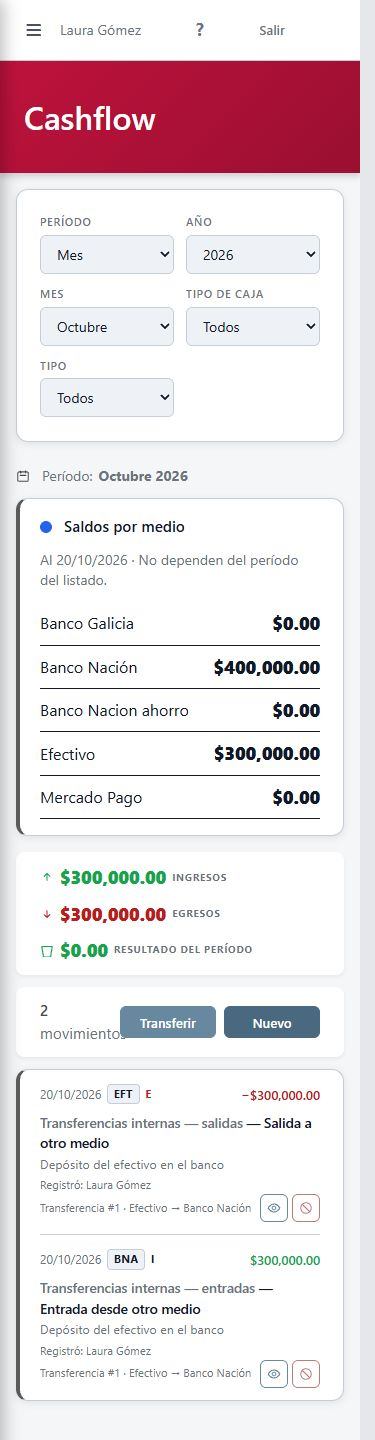
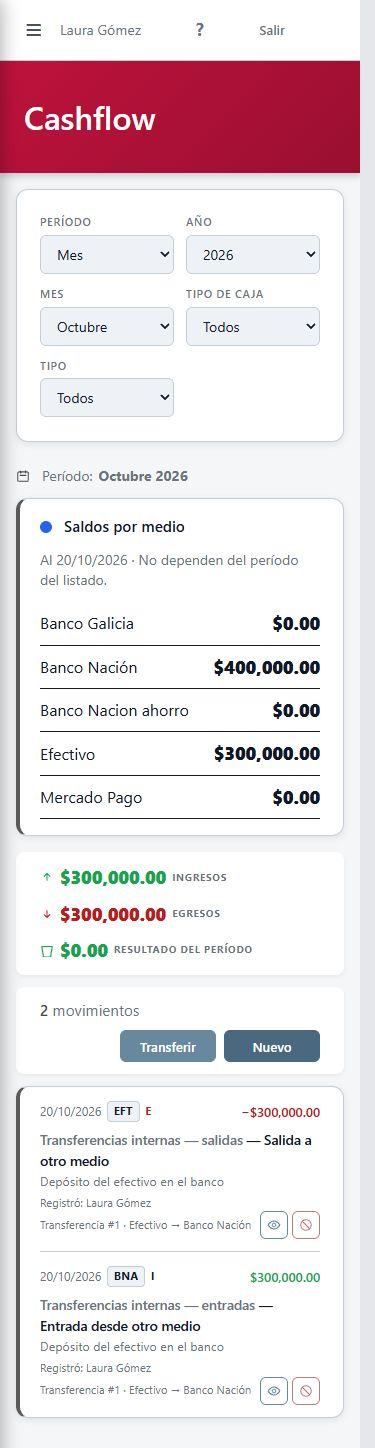
T97: separar contador y botones en la propuesta movil
Ajuste pedido por Carlos: contador en una fila y Transferir/Nuevo debajo, a la derecha. Capturas renovadas, separacion medida a 375 y escritorios identicos. Propuesta pendiente de aprobacion; sin vistas reales ni CSS compartido.

diff --git a/docs/06-pruebas/PRU-04/evidencia-t97/propuesta/html/01-cashflow-anular.html b/docs/06-pruebas/PRU-04/evidencia-t97/propuesta/html/01-cashflow-anular.html
@@ -3,7 +3,7 @@
 <head>
     <meta charset="utf-8">
     <meta name="viewport" content="width=device-width, initial-scale=1">
-    <meta name="csrf-token" content="rocgqJOvSmzFsvfekWAYSDRdSm5ePpTIlVNNHslC">
+    <meta name="csrf-token" content="0CM1eWsq3BmNGR1XzvJCqTuiAsLkrdUrZzNjHgOm">
     <title>Cashflow histórico – Wings</title>
     <link rel="icon" type="image/x-icon" href="http://gestion-wings/favicon.ico">
     <link rel="icon" type="image/png" sizes="32x32" href="http://gestion-wings/favicon-32x32.png">
@@ -11,7 +11,13 @@
     <link rel="apple-touch-icon" sizes="180x180" href="http://gestion-wings/apple-touch-icon.png">
     <link rel="manifest" href="http://gestion-wings/site.webmanifest">
     <meta name="theme-color" content="#0F172A">
-    <link rel="preload" as="style" href="file:///C:/xampp/htdocs/gestion-wings/public/build/assets/app-90uqqoQ0.css" /><link rel="modulepreload" as="script" href="file:///C:/xampp/htdocs/gestion-wings/public/build/assets/app-C1AirYQy.js" /><link rel="modulepreload" as="script" href="file:///C:/xampp/htdocs/gestion-wings/public/build/assets/formato-importe-rshXORao.js" /><link rel="stylesheet" href="file:///C:/xampp/htdocs/gestion-wings/public/build/assets/app-90uqqoQ0.css" /><script type="module" src="file:///C:/xampp/htdocs/gestion-wings/public/build/assets/app-C1AirYQy.js"></script></head>
+    <link rel="preload" as="style" href="file:///C:/xampp/htdocs/gestion-wings/public/build/assets/app-90uqqoQ0.css" /><link rel="modulepreload" as="script" href="file:///C:/xampp/htdocs/gestion-wings/public/build/assets/app-C1AirYQy.js" /><link rel="modulepreload" as="script" href="file:///C:/xampp/htdocs/gestion-wings/public/build/assets/formato-importe-rshXORao.js" /><link rel="stylesheet" href="file:///C:/xampp/htdocs/gestion-wings/public/build/assets/app-90uqqoQ0.css" /><script type="module" src="file:///C:/xampp/htdocs/gestion-wings/public/build/assets/app-C1AirYQy.js"></script><style>/* Propuesta T97: el contador tiene su fila; las acciones conservan el borde derecho. */
+@media (max-width: 640px) {
+    #cashflow-acciones { flex-wrap: wrap; row-gap: 8px; }
+    #cashflow-acciones > .stats-info { flex: 0 0 100%; }
+    #cashflow-acciones > .acciones-celular-derecha { margin-left: auto; }
+}
+</style></head>
 <body>
 
 <div class="ds-layout">
@@ -236,7 +242,7 @@
                             <span style="font-weight:700; font-size:1.15rem; line-height:1; display:inline-block; transform:translateY(-1px);">?</span>
                         </a>
                                         <form method="POST" action="http://gestion-wings/logout">
-                        <input type="hidden" name="_token" value="rocgqJOvSmzFsvfekWAYSDRdSm5ePpTIlVNNHslC" autocomplete="off">                        <button class="ds-btn ds-btn--ghost"
+                        <input type="hidden" name="_token" value="0CM1eWsq3BmNGR1XzvJCqTuiAsLkrdUrZzNjHgOm" autocomplete="off">                        <button class="ds-btn ds-btn--ghost"
             type="submit"
             >
 

diff --git a/docs/06-pruebas/PRU-04/evidencia-t97/propuesta/html/03-cashflow-anulada.html b/docs/06-pruebas/PRU-04/evidencia-t97/propuesta/html/03-cashflow-anulada.html
@@ -3,7 +3,7 @@
 <head>
     <meta charset="utf-8">
     <meta name="viewport" content="width=device-width, initial-scale=1">
-    <meta name="csrf-token" content="rocgqJOvSmzFsvfekWAYSDRdSm5ePpTIlVNNHslC">
+    <meta name="csrf-token" content="0CM1eWsq3BmNGR1XzvJCqTuiAsLkrdUrZzNjHgOm">
     <title>Cashflow histórico – Wings</title>
     <link rel="icon" type="image/x-icon" href="http://gestion-wings/favicon.ico">
     <link rel="icon" type="image/png" sizes="32x32" href="http://gestion-wings/favicon-32x32.png">
@@ -11,7 +11,13 @@
     <link rel="apple-touch-icon" sizes="180x180" href="http://gestion-wings/apple-touch-icon.png">
     <link rel="manifest" href="http://gestion-wings/site.webmanifest">
     <meta name="theme-color" content="#0F172A">
-    <link rel="preload" as="style" href="file:///C:/xampp/htdocs/gestion-wings/public/build/assets/app-90uqqoQ0.css" /><link rel="modulepreload" as="script" href="file:///C:/xampp/htdocs/gestion-wings/public/build/assets/app-C1AirYQy.js" /><link rel="modulepreload" as="script" href="file:///C:/xampp/htdocs/gestion-wings/public/build/assets/formato-importe-rshXORao.js" /><link rel="stylesheet" href="file:///C:/xampp/htdocs/gestion-wings/public/build/assets/app-90uqqoQ0.css" /><script type="module" src="file:///C:/xampp/htdocs/gestion-wings/public/build/assets/app-C1AirYQy.js"></script></head>
+    <link rel="preload" as="style" href="file:///C:/xampp/htdocs/gestion-wings/public/build/assets/app-90uqqoQ0.css" /><link rel="modulepreload" as="script" href="file:///C:/xampp/htdocs/gestion-wings/public/build/assets/app-C1AirYQy.js" /><link rel="modulepreload" as="script" href="file:///C:/xampp/htdocs/gestion-wings/public/build/assets/formato-importe-rshXORao.js" /><link rel="stylesheet" href="file:///C:/xampp/htdocs/gestion-wings/public/build/assets/app-90uqqoQ0.css" /><script type="module" src="file:///C:/xampp/htdocs/gestion-wings/public/build/assets/app-C1AirYQy.js"></script><style>/* Propuesta T97: el contador tiene su fila; las acciones conservan el borde derecho. */
+@media (max-width: 640px) {
+    #cashflow-acciones { flex-wrap: wrap; row-gap: 8px; }
+    #cashflow-acciones > .stats-info { flex: 0 0 100%; }
+    #cashflow-acciones > .acciones-celular-derecha { margin-left: auto; }
+}
+</style></head>
 <body>
 
 <div class="ds-layout">
@@ -236,7 +242,7 @@
                             <span style="font-weight:700; font-size:1.15rem; line-height:1; display:inline-block; transform:translateY(-1px);">?</span>
                         </a>
                                         <form method="POST" action="http://gestion-wings/logout">
-                        <input type="hidden" name="_token" value="rocgqJOvSmzFsvfekWAYSDRdSm5ePpTIlVNNHslC" autocomplete="off">                        <button class="ds-btn ds-btn--ghost"
+                        <input type="hidden" name="_token" value="0CM1eWsq3BmNGR1XzvJCqTuiAsLkrdUrZzNjHgOm" autocomplete="off">                        <button class="ds-btn ds-btn--ghost"
             type="submit"
             >
 

diff --git a/docs/06-pruebas/PRU-04/APROBAR-T97.html b/docs/06-pruebas/PRU-04/APROBAR-T97.html
@@ -9,6 +9,8 @@ code{overflow-wrap:anywhere}a{color:#174a7e}table{border-collapse:collapse;backg
 </style></head><body>
 <h1>T97 — Anular una transferencia completa</h1>
 <p><strong>Propuesta para aprobar el aspecto.</strong> Capturas del HTML de Wings con sus componentes reales; solo se reemplazaron las partes propuestas. La anulación aún no está implementada. El ejemplo usa datos ficticios y no opera el sitio de prueba.</p>
+<p><strong>Ajuste pedido el 01/11:</strong> en celular el contador ocupa una fila y los botones quedan debajo, alineados a la derecha, sin superponerse con el texto.</p>
+<figure class="cel"><a href="evidencia-t97/capturas/04-barra-corregida-375.jpg"><img src="evidencia-t97/capturas/04-barra-corregida-375.jpg" alt="Barra corregida: contador arriba y botones Transferir y Nuevo debajo, sin superposición"></a></figure>
 <p>Desde cualquiera de las dos filas se llega a la misma confirmación. Se pide motivo, se conservan los originales y aparecen las dos anulaciones relacionadas. Las filas anuladas y sus contraasientos quedan solo con <strong>Ver</strong>.</p>
 <table><thead><tr><th>Ejemplo</th><th>Efectivo</th><th>Banco Nación</th></tr></thead><tbody><tr><td>Antes</td><td>$600.000</td><td>$100.000</td></tr><tr><td>Transferencia de $300.000</td><td>$300.000</td><td>$400.000</td></tr><tr><td>Después de anular (propuesto)</td><td>$600.000</td><td>$100.000</td></tr></tbody></table>
 <p>Escritorio: 1366 de ancho. Celular: HTML dentro de un marco de 375; no es una ventana recortada. Abrí cada imagen para verla en tamaño original.</p>

diff --git a/docs/06-pruebas/PRU-04/evidencia-t97/propuesta/html/02-confirmacion.html b/docs/06-pruebas/PRU-04/evidencia-t97/propuesta/html/02-confirmacion.html
@@ -3,7 +3,7 @@
 <head>
     <meta charset="utf-8">
     <meta name="viewport" content="width=device-width, initial-scale=1">
-    <meta name="csrf-token" content="rocgqJOvSmzFsvfekWAYSDRdSm5ePpTIlVNNHslC">
+    <meta name="csrf-token" content="0CM1eWsq3BmNGR1XzvJCqTuiAsLkrdUrZzNjHgOm">
     <title>Anular transferencia – Cashflow – Wings</title>
     <link rel="icon" type="image/x-icon" href="http://gestion-wings/favicon.ico">
     <link rel="icon" type="image/png" sizes="32x32" href="http://gestion-wings/favicon-32x32.png">
@@ -236,7 +236,7 @@
                             <span style="font-weight:700; font-size:1.15rem; line-height:1; display:inline-block; transform:translateY(-1px);">?</span>
                         </a>
                                         <form method="POST" action="http://gestion-wings/logout">
-                        <input type="hidden" name="_token" value="rocgqJOvSmzFsvfekWAYSDRdSm5ePpTIlVNNHslC" autocomplete="off">                        <button class="ds-btn ds-btn--ghost"
+                        <input type="hidden" name="_token" value="0CM1eWsq3BmNGR1XzvJCqTuiAsLkrdUrZzNjHgOm" autocomplete="off">                        <button class="ds-btn ds-btn--ghost"
             type="submit"
             >
 

diff --git a/docs/06-pruebas/PRU-04/evidencia-t97/propuesta/html/00-login-control.html b/docs/06-pruebas/PRU-04/evidencia-t97/propuesta/html/00-login-control.html
@@ -3,7 +3,7 @@
 <head>
     <meta charset="utf-8">
     <meta name="viewport" content="width=device-width, initial-scale=1">
-    <meta name="csrf-token" content="rocgqJOvSmzFsvfekWAYSDRdSm5ePpTIlVNNHslC">
+    <meta name="csrf-token" content="0CM1eWsq3BmNGR1XzvJCqTuiAsLkrdUrZzNjHgOm">
     <title>Ingresar – Wings</title>
     <link rel="icon" type="image/x-icon" href="http://gestion-wings/favicon.ico">
     <link rel="icon" type="image/png" sizes="32x32" href="http://gestion-wings/favicon-32x32.png">
@@ -65,7 +65,7 @@
         
         
         <form method="POST" action="http://gestion-wings/login">
-            <input type="hidden" name="_token" value="rocgqJOvSmzFsvfekWAYSDRdSm5ePpTIlVNNHslC" autocomplete="off">
+            <input type="hidden" name="_token" value="0CM1eWsq3BmNGR1XzvJCqTuiAsLkrdUrZzNjHgOm" autocomplete="off">
             <div class="mb-4">
                 <label for="email" class="block text-xs font-medium mb-1.5 text-wings-muted">Email</label>
                 <input

diff --git a/docs/06-pruebas/PRU-04/evidencia-t97/propuesta/barra-movil.css b/docs/06-pruebas/PRU-04/evidencia-t97/propuesta/barra-movil.css
@@ -1,0 +1,6 @@
+/* Propuesta T97: el contador tiene su fila; las acciones conservan el borde derecho. */
+@media (max-width: 640px) {
+    #cashflow-acciones { flex-wrap: wrap; row-gap: 8px; }
+    #cashflow-acciones > .stats-info { flex: 0 0 100%; }
+    #cashflow-acciones > .acciones-celular-derecha { margin-left: auto; }
+}

diff --git a/docs/06-pruebas/PRU-04/evidencia-t97/propuesta/verificar-propuesta.py b/docs/06-pruebas/PRU-04/evidencia-t97/propuesta/verificar-propuesta.py
@@ -38,11 +38,22 @@ for archivo in sorted((PROPUESTA.parent / 'capturas').glob('*.jpg')):
     assert ancho in ({1351, 1366} if '-1366.' in archivo.name else {375}), archivo.name
     capturas.append({'archivo': archivo.relative_to(PRU).as_posix(), 'ancho': ancho, 'alto': alto,
                      'sha256': sha256(archivo.read_bytes()).hexdigest()})
-assert len(capturas) == 7
+assert len(capturas) == 8
+mediciones = json.loads((PROPUESTA / 'medicion-barra.json').read_text(encoding='utf-8'))
+assert {m['texto'] for m in mediciones} == {'2 movimientos', '4 movimientos'}
+for medida in mediciones:
+    assert medida['viewport'] == 375 and medida['ancho'] == medida['contenido']
+    assert len(medida['botones']) == 2
+    for boton in medida['botones']:
+        assert boton['top'] - medida['contador']['bottom'] == 8
+        assert boton['width'] == 96 and boton['height'] == 32
+    assert medida['botones'][1]['left'] - medida['botones'][0]['right'] == 8
+    assert medida['botones'][1]['right'] == medida['contador']['right']
 resultado = {'fuentes_originales_intactas': list(origen['fuentes']),
              'enlaces_galeria_resueltos': len(enlaces.rutas), 'capturas': capturas,
              'medicion_navegador': {'escritorio_innerWidth': 1366, 'iframe_innerWidth': 375,
                                    'iframe_body_clientWidth': 360, 'iframe_body_scrollWidth': 360},
+             'medicion_barra_movil': mediciones,
              'limite': 'Integridad de la propuesta; no implementacion ni prueba financiera.'}
 (PROPUESTA / 'verificacion.json').write_text(json.dumps(resultado, indent=2, ensure_ascii=False) + '\n', encoding='utf-8')
 print(f"OK: {len(capturas)} JPEG, {len(enlaces.rutas)} enlaces locales y {len(origen['fuentes'])} fuentes intactas.")

diff --git a/docs/06-pruebas/PRU-04/evidencia-t97/propuesta/CapturasPropuestaT97Test.php b/docs/06-pruebas/PRU-04/evidencia-t97/propuesta/CapturasPropuestaT97Test.php
@@ -109,7 +109,10 @@ class CapturasPropuestaT97Test extends TestCase
         $vista = str_replace('{{ $mov->origenCorreccion }}',
             '<span style="display:block;white-space:normal;">{{ $mov->origenCorreccion }}</span>@if($mov->motivoPropuesta)<span style="display:block;white-space:normal;">Motivo: {{ $mov->motivoPropuesta }}</span>@endif', $vista, $n);
         $this->assertSame(2, $n); // Escritorio y tarjetas móviles.
-        return Blade::render($vista, $datos);
+        $html = Blade::render($vista, $datos);
+        // Ajuste pedido por Carlos sobre la propuesta: evita que los botones pisen el conteo.
+        // Solo estas dos capturas de Cashflow; no modifica el CSS compartido del producto.
+        return str_replace('</head>', '<style>'.file_get_contents(__DIR__.'/barra-movil.css').'</style></head>', $html);
     }
 
     private function guardar(string $nombre, string $html): void

diff --git a/docs/06-pruebas/PRU-04/IMPLEMENTACION-T97.md b/docs/06-pruebas/PRU-04/IMPLEMENTACION-T97.md
@@ -13,7 +13,7 @@ Se cumple el freno del pedido antes de modificar `resources/views/**`.
 - `CashflowMovimiento::esDirecto` exige referencias y `contra_origen_id` nulos; las patas quedan fuera de la corrección de directos. No se modificó esa defensa ni `exigirSinTraspaso`.
 - La propuesta renderiza la ruta real de Cashflow y la plantilla real de eliminación, con componentes de Wings. El generador cambia en memoria los datos de presentación y el formulario. No modifica las vistas originales.
 - El resultado anulado se preparó **solo como fixture visual**: originales y dos inversos conservando fecha, subrubro, cuenta y clasificación. La referencia literal `ANULACION_TRANSFERENCIA` es ilustrativa; no se ha elegido un marcador de producto antes de completar el análisis de lectores.
-- Renderizado final: **1 prueba, 11 aserciones, salida 0, 13,43 s**, solo `wings_testing_codex`. [Salida](evidencia-t97/propuesta/renderizado.txt). Generador fuera del descubrimiento normal de la suite: no aumenta el número de pruebas del producto.
+- Renderizado final tras el ajuste móvil: **1 prueba, 11 aserciones, salida 0, 13,80 s**, solo `wings_testing_codex`. [Salida](evidencia-t97/propuesta/renderizado.txt). Generador fuera del descubrimiento normal de la suite: no aumenta el número de pruebas del producto.
 - Capturas revisadas en Chrome: seis pantallas y login de control. Viewport de escritorio 1366 (las capturas completas de Cashflow omiten sus 15 px de scrollbar: imagen de 1351); `innerWidth` del iframe 375, contenido 360 sin desborde horizontal (15 px corresponden al espacio de scrollbar del documento). El login entra completo. [Fuentes y hashes](evidencia-t97/propuesta/origen.json).
 - Se detectaron y corrigieron dos errores del generador: fecha del capital inicial posterior al escenario y sustitución de `$300` como referencia de regex. Se regeneraron HTML y capturas; no eran fallas del producto.
 - T97 pasó a `en_curso`, con Codex. Carlos autorizó actualizar solo T97 preservando T96; los cambios de Gemini y la evidencia T34 ajena no se incorporan como propios.
@@ -59,9 +59,12 @@ Lecturas puntuales confirmadas: ReporteMensual distingue referencias al resolver
 Falta una prueba por regla y contrapruebas retirando cada defensa; regresiones T61/T27 sin cambiar expectativas; suite completa exclusiva en `wings_testing_codex`. No se hereda como verde ninguna suite anterior.
 Faltan manual, fichas, contrato V5, estado/plan/checklist y eventual guía de despliegue, en el commit de implementación. La copia del catálogo de pruebas sigue solo lectura; se propondrán casos concretos para Claude en este informe.
 
-## Hallazgo fuera de alcance
+## Ajuste visual solicitado por Carlos el 01/11
 
-En la barra móvil del listado se observa el contador junto a Transferir con poco espacio y superposición. Esa parte de la plantilla no se cambió en la propuesta. Se informa sin corregirla en T97.
+Carlos señaló la superposición del contador con Transferir/Nuevo y pidió ajustar el diseño. Se corrigió **en la propuesta aislada**: contador en su propia fila y botones debajo a la derecha. Regla limitada a `#cashflow-acciones` en anchos de hasta 640; sin tocar el CSS compartido ni las vistas del producto.
+Se renovaron las dos capturas de Cashflow a 375. Medición real en Chrome con 2 y 4 movimientos: 8 px entre contador y botones, ambos de 96 × 32, con separación horizontal de 8 px y borde derecho común. [Mediciones](evidencia-t97/propuesta/medicion-barra.json) · [Detalle corregido](evidencia-t97/capturas/04-barra-corregida-375.jpg).
+Los dos escritorios se recapturaron con viewport 1366 y resultaron idénticos byte por byte a c7903931. Integridad final: ocho JPEG, incluidos login de control y detalle de la barra, 16 enlaces de galería y cuatro fuentes de producto intactas. [Verificación](evidencia-t97/propuesta/verificacion.json).
+Sigue pendiente el OK de Carlos sobre la propuesta actualizada; el pedido de corregir esta superposición no se registra como aprobación del conjunto.
 
 ## Próximo paso
 

diff --git a/docs/00-estado/LOG-CODEX.md b/docs/00-estado/LOG-CODEX.md
@@ -9,6 +9,7 @@ Inventario inicial de 16 lectores; auditoría exhaustiva, reglas, concurrencia c
 Main actualizado al iniciar; cambios T96 de Gemini y evidencia T34 ajena preservados. Carlos autorizó mover solo T97; no se incluyen aportes ajenos en el commit propio.
 Sin modificar guardas, manual, catálogo de pruebas, vistas/CSS ni servidor. No desplegar mientras Cora trabaja en test. Propuesta y bitácora quedan documentadas; T97 sigue en curso, no a_verificar.
 Freno explícito del pedido: Carlos revisa APROBAR-T97.html; implementar recién con su OK y entregar después a Claude. Entrada antigua archivada íntegra por límite.
+Actualización 01/11: Carlos pidió separar botones y texto. Propuesta móvil corregida y recapturada: contador arriba, botones debajo; 8 px de separación, 96 × 32. Escritorios idénticos. Renderizado 1/11 verde; sigue pendiente su OK.
 
 ## 2026-10-30 — Codex CyE — PRU-04 días 41 a 47 entregados a revisión
 
